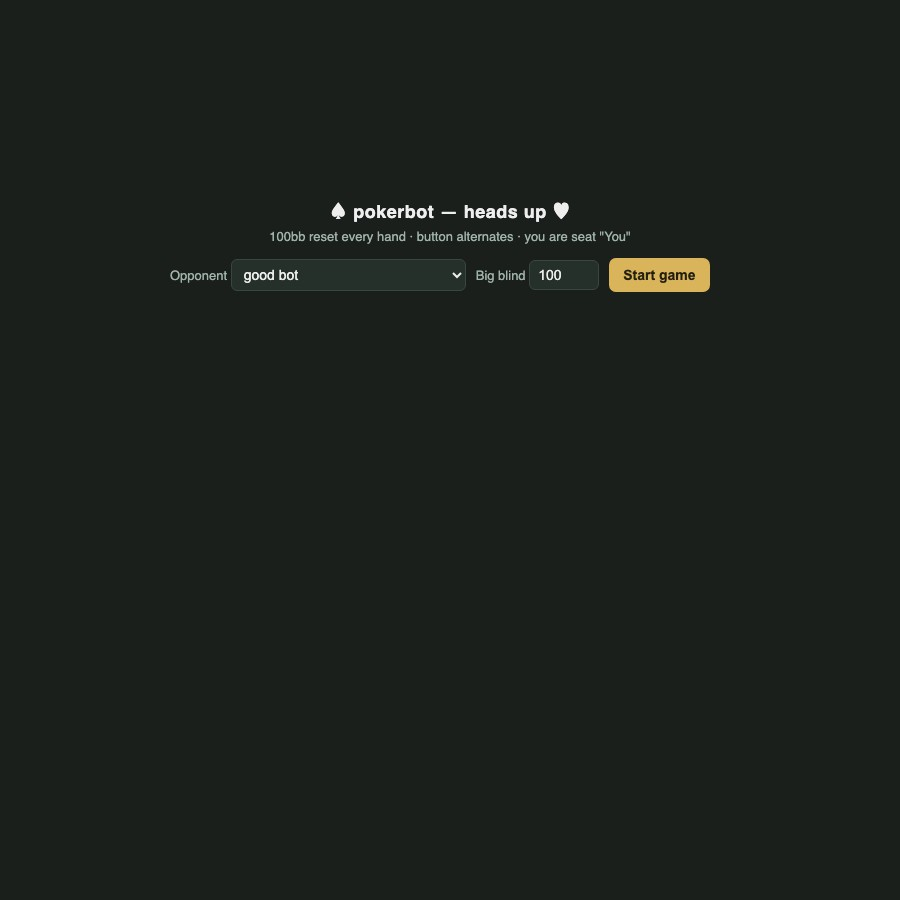
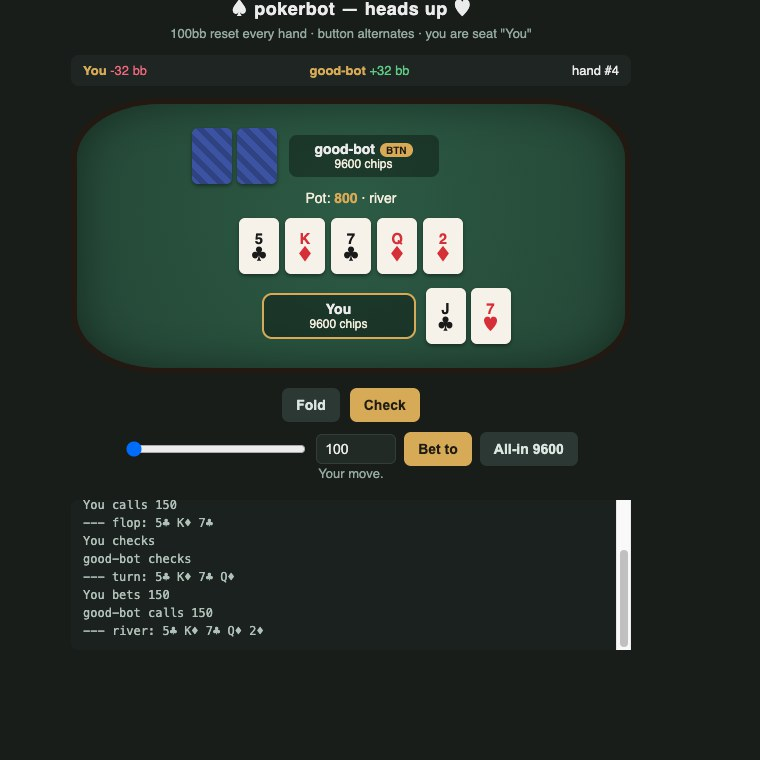
better images

diff --git a/style.css b/style.css
@@ -63,38 +63,31 @@ img {
 }
 
 .highlight-card {
-    position: relative;
     display: block;
+    text-decoration: none;
+}
+
+.highlight-card:hover {
+    text-decoration: none;
+}
+
+.highlight-image {
     aspect-ratio: 1 / 1;
     border-radius: 10px;
-    overflow: hidden;
     background-size: cover;
     background-position: center;
-    text-decoration: none;
     box-shadow: 0 2px 10px rgba(0, 0, 0, 0.08);
     transition: transform 0.18s ease, box-shadow 0.18s ease;
 }
 
-.highlight-card:hover {
+.highlight-card:hover .highlight-image {
     transform: translateY(-4px);
     box-shadow: 0 10px 22px rgba(0, 0, 0, 0.14);
-    text-decoration: none;
-}
-
-.highlight-card::after {
-    content: "";
-    position: absolute;
-    inset: 0;
-    background: linear-gradient(to bottom, rgba(250, 250, 250, 0) 42%, rgba(250, 250, 250, 0.96) 82%);
-    pointer-events: none;
 }
 
 .highlight-title {
-    position: absolute;
-    left: 18px;
-    right: 18px;
-    bottom: 16px;
-    z-index: 1;
+    display: block;
+    margin-top: 10px;
     font-family: 'IBM Plex Serif', serif;
     font-weight: 600;
     font-size: 18px;

diff --git a/index.html b/index.html
@@ -9,13 +9,16 @@
 
     <h2>Highlights</h2>
     <div class="highlights">
-        <a class="highlight-card" href="./pokerbot/index.html" style="background-image: url('./highlights/pokerbot.jpg');">
+        <a class="highlight-card" href="./pokerbot/index.html">
+            <div class="highlight-image" style="background-image: url('./highlights/pokerbot.jpg');"></div>
             <span class="highlight-title">Poker Bot</span>
         </a>
-        <a class="highlight-card" href="./chaos-sim/index.html" style="background-image: url('./highlights/chaos-sim.jpg');">
+        <a class="highlight-card" href="./chaos-sim/index.html">
+            <div class="highlight-image" style="background-image: url('./highlights/chaos-sim.jpg');"></div>
             <span class="highlight-title">Chaos Sim</span>
         </a>
-        <a class="highlight-card" href="./CS180/3/index.html" style="background-image: url('./highlights/autostitching.jpg');">
+        <a class="highlight-card" href="./CS180/3/index.html">
+            <div class="highlight-image" style="background-image: url('./highlights/autostitching.jpg');"></div>
             <span class="highlight-title">Autostitching and Photo Mosaics</span>
         </a>
     </div>